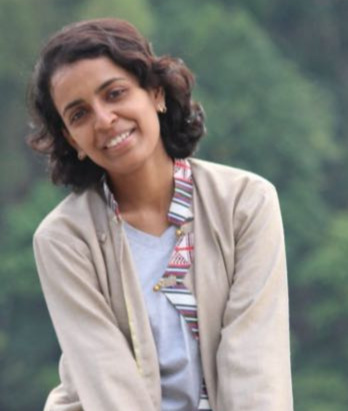
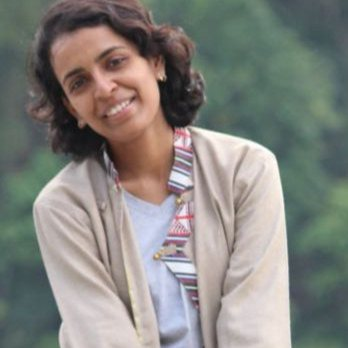
Shrink the team photos; move the footer counter to GoatCounter
The team page shipped 1.3 MB of photographs to fill eleven 258px squares,
which is why the bottom row arrived late. Each is now cropped to the
square the card actually shows - the cards already centre-crop with
object-fit: cover and the default 50% 50% origin, so nothing visible is
lost - and scaled to 560px for high-density screens. 1345 KB -> 462 KB.
Intrinsic width/height are now on each tag so the grid does not reflow as
they arrive.

The footer count now comes from GoatCounter rather than counterapi, so
the number on the page and the dashboard are the same number, and it
cannot be inflated by anyone hitting a public URL. It reports
count_unique, ie people rather than pageviews.

diff --git a/team.html b/team.html
@@ -113,7 +113,7 @@
       <div class="team-grid">
         <div class="team-card" data-reveal="left" tabindex="0">
           <div class="member-photo-container">
-            <img src="assets/images/deepak_jha_team.jpg" alt="Dr. Deepak Kumar Jha" class="member-photo">
+            <img src="assets/images/deepak_jha_team.jpg" alt="Dr. Deepak Kumar Jha" class="member-photo" width="560" height="560" decoding="async">
           </div>
           <div class="member-info">
             <h3 class="member-name">Dr. Deepak Kumar Jha</h3>
@@ -124,7 +124,7 @@
         </div>
         <div class="team-card" data-reveal="left" tabindex="0">
           <div class="member-photo-container">
-            <img src="assets/images/vimochani_tripathi.jpg" alt="Ms. Vimochani Tripathi" class="member-photo">
+            <img src="assets/images/vimochani_tripathi.jpg" alt="Ms. Vimochani Tripathi" class="member-photo" width="560" height="560" decoding="async">
           </div>
           <div class="member-info">
             <h3 class="member-name">Ms. Vimochani Tripathi</h3>
@@ -135,7 +135,7 @@
         </div>
         <div class="team-card" data-reveal="left" tabindex="0">
           <div class="member-photo-container">
-            <img src="assets/images/ayush_shrote.jpg" alt="Mr. Ayush Suresh Shrote" class="member-photo">
+            <img src="assets/images/ayush_shrote.jpg" alt="Mr. Ayush Suresh Shrote" class="member-photo" width="268" height="268" decoding="async">
           </div>
           <div class="member-info">
             <h3 class="member-name">Mr. Ayush Suresh Shrote</h3>
@@ -146,7 +146,7 @@
         </div>
         <div class="team-card" data-reveal="left" tabindex="0">
           <div class="member-photo-container">
-            <img src="assets/images/shreya_shrey.jpg" alt="Ms. Shreya Shrey" class="member-photo">
+            <img src="assets/images/shreya_shrey.jpg" alt="Ms. Shreya Shrey" class="member-photo" width="348" height="348" decoding="async">
           </div>
           <div class="member-info">
             <h3 class="member-name">Ms. Shreya Shrey</h3>
@@ -157,7 +157,7 @@
         </div>
         <div class="team-card" data-reveal="left" tabindex="0">
           <div class="member-photo-container">
-            <img src="assets/images/hemant_vaishnav.jpg" alt="Mr. Hemant Vaishnav" class="member-photo">
+            <img src="assets/images/hemant_vaishnav.jpg" alt="Mr. Hemant Vaishnav" class="member-photo" width="496" height="496" decoding="async">
           </div>
           <div class="member-info">
             <h3 class="member-name">Mr. Hemant Vaishnav</h3>
@@ -168,7 +168,7 @@
         </div>
         <div class="team-card" data-reveal="left" tabindex="0">
           <div class="member-photo-container">
-            <img src="assets/images/mtech_student.jpg" alt="Mr. Aashin Krishna" class="member-photo">
+            <img src="assets/images/mtech_student.jpg" alt="Mr. Aashin Krishna" class="member-photo" width="560" height="560" decoding="async">
           </div>
           <div class="member-info">
             <h3 class="member-name">Mr. Aashin Krishna</h3>
@@ -179,7 +179,7 @@
         </div>
         <div class="team-card" data-reveal="left" tabindex="0">
           <div class="member-photo-container">
-            <img src="assets/images/member_monalisa_behera.jpg" alt="Ms. Monalisa Behera" class="member-photo">
+            <img src="assets/images/member_monalisa_behera.jpg" alt="Ms. Monalisa Behera" class="member-photo" width="560" height="560" decoding="async">
           </div>
           <div class="member-info">
             <h3 class="member-name">Ms. Monalisa Behera</h3>
@@ -190,7 +190,7 @@
         </div>
         <div class="team-card" data-reveal="left" tabindex="0">
           <div class="member-photo-container">
-            <img src="assets/images/member_vikash_sharma.jpg" alt="Mr. Vikash Kumar Sharma" class="member-photo">
+            <img src="assets/images/member_vikash_sharma.jpg" alt="Mr. Vikash Kumar Sharma" class="member-photo" width="345" height="345" decoding="async">
           </div>
           <div class="member-info">
             <h3 class="member-name">Mr. Vikash Kumar Sharma</h3>
@@ -201,7 +201,7 @@
         </div>
         <div class="team-card" data-reveal="left" tabindex="0">
           <div class="member-photo-container">
-            <img src="assets/images/member_swagarika_giri.jpg" alt="Ms. Swagarika Giri" class="member-photo">
+            <img src="assets/images/member_swagarika_giri.jpg" alt="Ms. Swagarika Giri" class="member-photo" width="560" height="560" decoding="async">
           </div>
           <div class="member-info">
             <h3 class="member-name">Ms. Swagarika Giri</h3>
@@ -212,7 +212,7 @@
         </div>
         <div class="team-card" data-reveal="left" tabindex="0">
           <div class="member-photo-container">
-            <img src="assets/images/somya_goel.jpg" alt="Ms. Somya Goel" class="member-photo">
+            <img src="assets/images/somya_goel.jpg" alt="Ms. Somya Goel" class="member-photo" width="440" height="440" decoding="async">
           </div>
           <div class="member-info">
             <h3 class="member-name">Ms. Somya Goel</h3>
@@ -223,7 +223,7 @@
         </div>
         <div class="team-card" data-reveal="left" tabindex="0">
           <div class="member-photo-container">
-            <img src="assets/images/kumar_twarit.jpg" alt="Mr. Kumar Twarit" class="member-photo">
+            <img src="assets/images/kumar_twarit.jpg" alt="Mr. Kumar Twarit" class="member-photo" width="560" height="560" decoding="async">
           </div>
           <div class="member-info">
             <h3 class="member-name">Mr. Kumar Twarit</h3>

diff --git a/assets/js/app.js b/assets/js/app.js
@@ -614,51 +614,38 @@ function initPdfRequest() {
 
 // --------------------------------------------------------------------------
 // 11. Visitor counter (footer)
-//     GitHub Pages serves static files and cannot count anything itself, so
-//     the tally is kept by counterapi.dev - a free, no-signup counter.
+//     The number comes from GoatCounter, the same service that records the
+//     statistics dashboard at https://basilrg.goatcounter.com - so the figure
+//     on the page and the figure in the dashboard are the same figure.
 //
-//     TO RESET OR MOVE THE COUNTER: change COUNTER_KEY below. Each namespace
-//     and key pair is a separate tally, and a new one starts at zero.
-//     TO REMOVE IT: delete the <p class="visitor-count"> line from the footer
-//     of every .html page; this function then does nothing.
+//     This needs "Allow adding visitor counts on your website" switched on in
+//     the GoatCounter site settings; without it the endpoint returns 403 and
+//     the footer simply shows nothing.
+//
+//     GoatCounter caches this response for up to four hours, so a new visit
+//     will not appear immediately.
 // --------------------------------------------------------------------------
-const COUNTER_KEY = 'https://api.counterapi.dev/v1/basil-research-group/site-visits';
+const COUNTER_URL = 'https://basilrg.goatcounter.com/counter/TOTAL.json';
 
 function initVisitorCount() {
   const el = document.getElementById('visitor-count');
   if (!el) return;
 
-  // Local previews would otherwise inflate the count while you are editing
-  const isLocal = ['localhost', '127.0.0.1', ''].includes(window.location.hostname);
-
-  // Count a person once per browser session, not once per page they open,
-  // so clicking through the nav does not register eight visits.
-  let counted = false;
-  try {
-    counted = window.sessionStorage.getItem('basil-counted') === '1';
-  } catch (err) {
-    counted = false;      // private browsing can block sessionStorage
-  }
-
-  const url = (counted || isLocal) ? `${COUNTER_KEY}/` : `${COUNTER_KEY}/up`;
-
-  fetch(url, { cache: 'no-store' })
+  fetch(COUNTER_URL, { cache: 'no-store' })
     .then(response => (response.ok ? response.json() : Promise.reject(response.status)))
     .then(data => {
-      if (typeof data.count !== 'number') return;
+      // count_unique is people; count is pageviews. Both arrive as strings
+      // already grouped ("1,234"), so they are printed as given.
+      const visitors = data.count_unique || data.count;
+      if (!visitors) return;
 
-      if (!counted && !isLocal) {
-        try { window.sessionStorage.setItem('basil-counted', '1'); } catch (err) { /* ignore */ }
-      }
-
-      const label = data.count === 1 ? 'visit' : 'visits';
-      el.innerHTML =
-        `<i class="fa-regular fa-eye"></i> ${data.count.toLocaleString('en-IN')} ${label}`;
+      const plural = String(visitors).replace(/[^0-9]/g, '') === '1' ? 'visitor' : 'visitors';
+      el.innerHTML = `<i class="fa-regular fa-eye"></i> ${visitors} ${plural}`;
       el.hidden = false;
     })
     .catch(() => {
-      // Counter unreachable - leave the footer as it was rather than showing
-      // a broken or zero figure.
+      // Setting not enabled, or GoatCounter unreachable - leave the footer as
+      // it was rather than showing a broken or zero figure.
     });
 }
 
